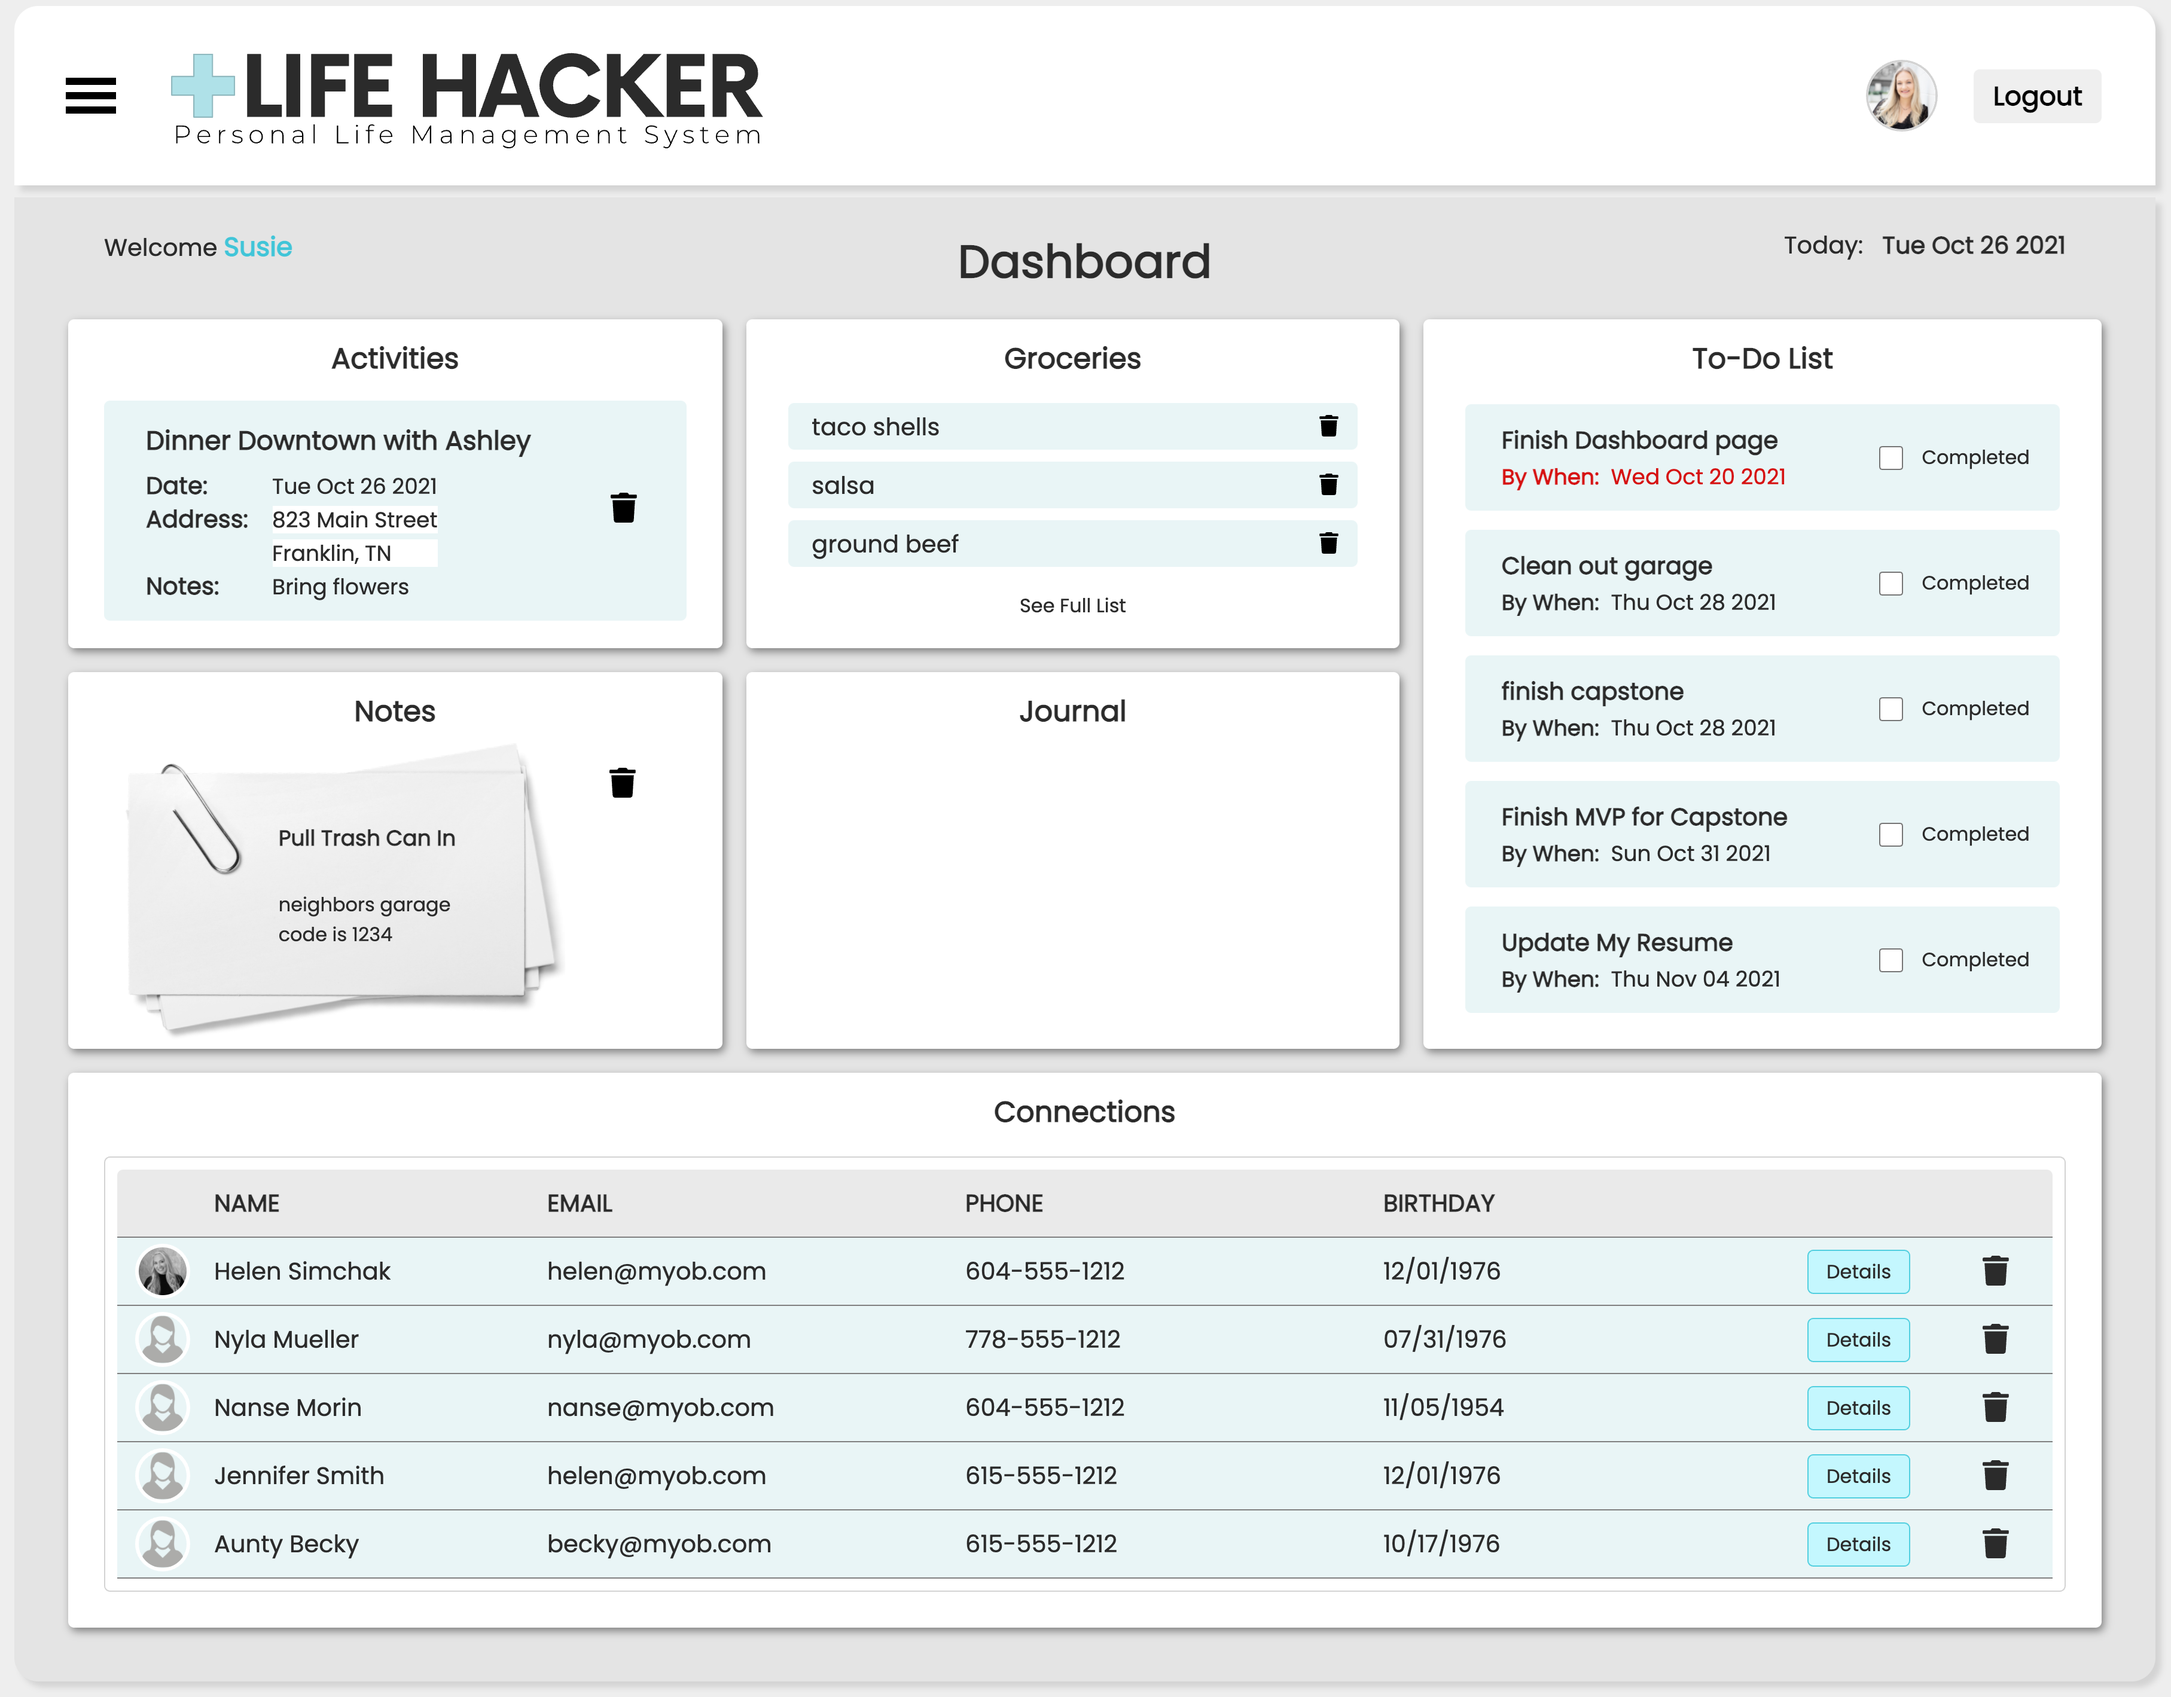
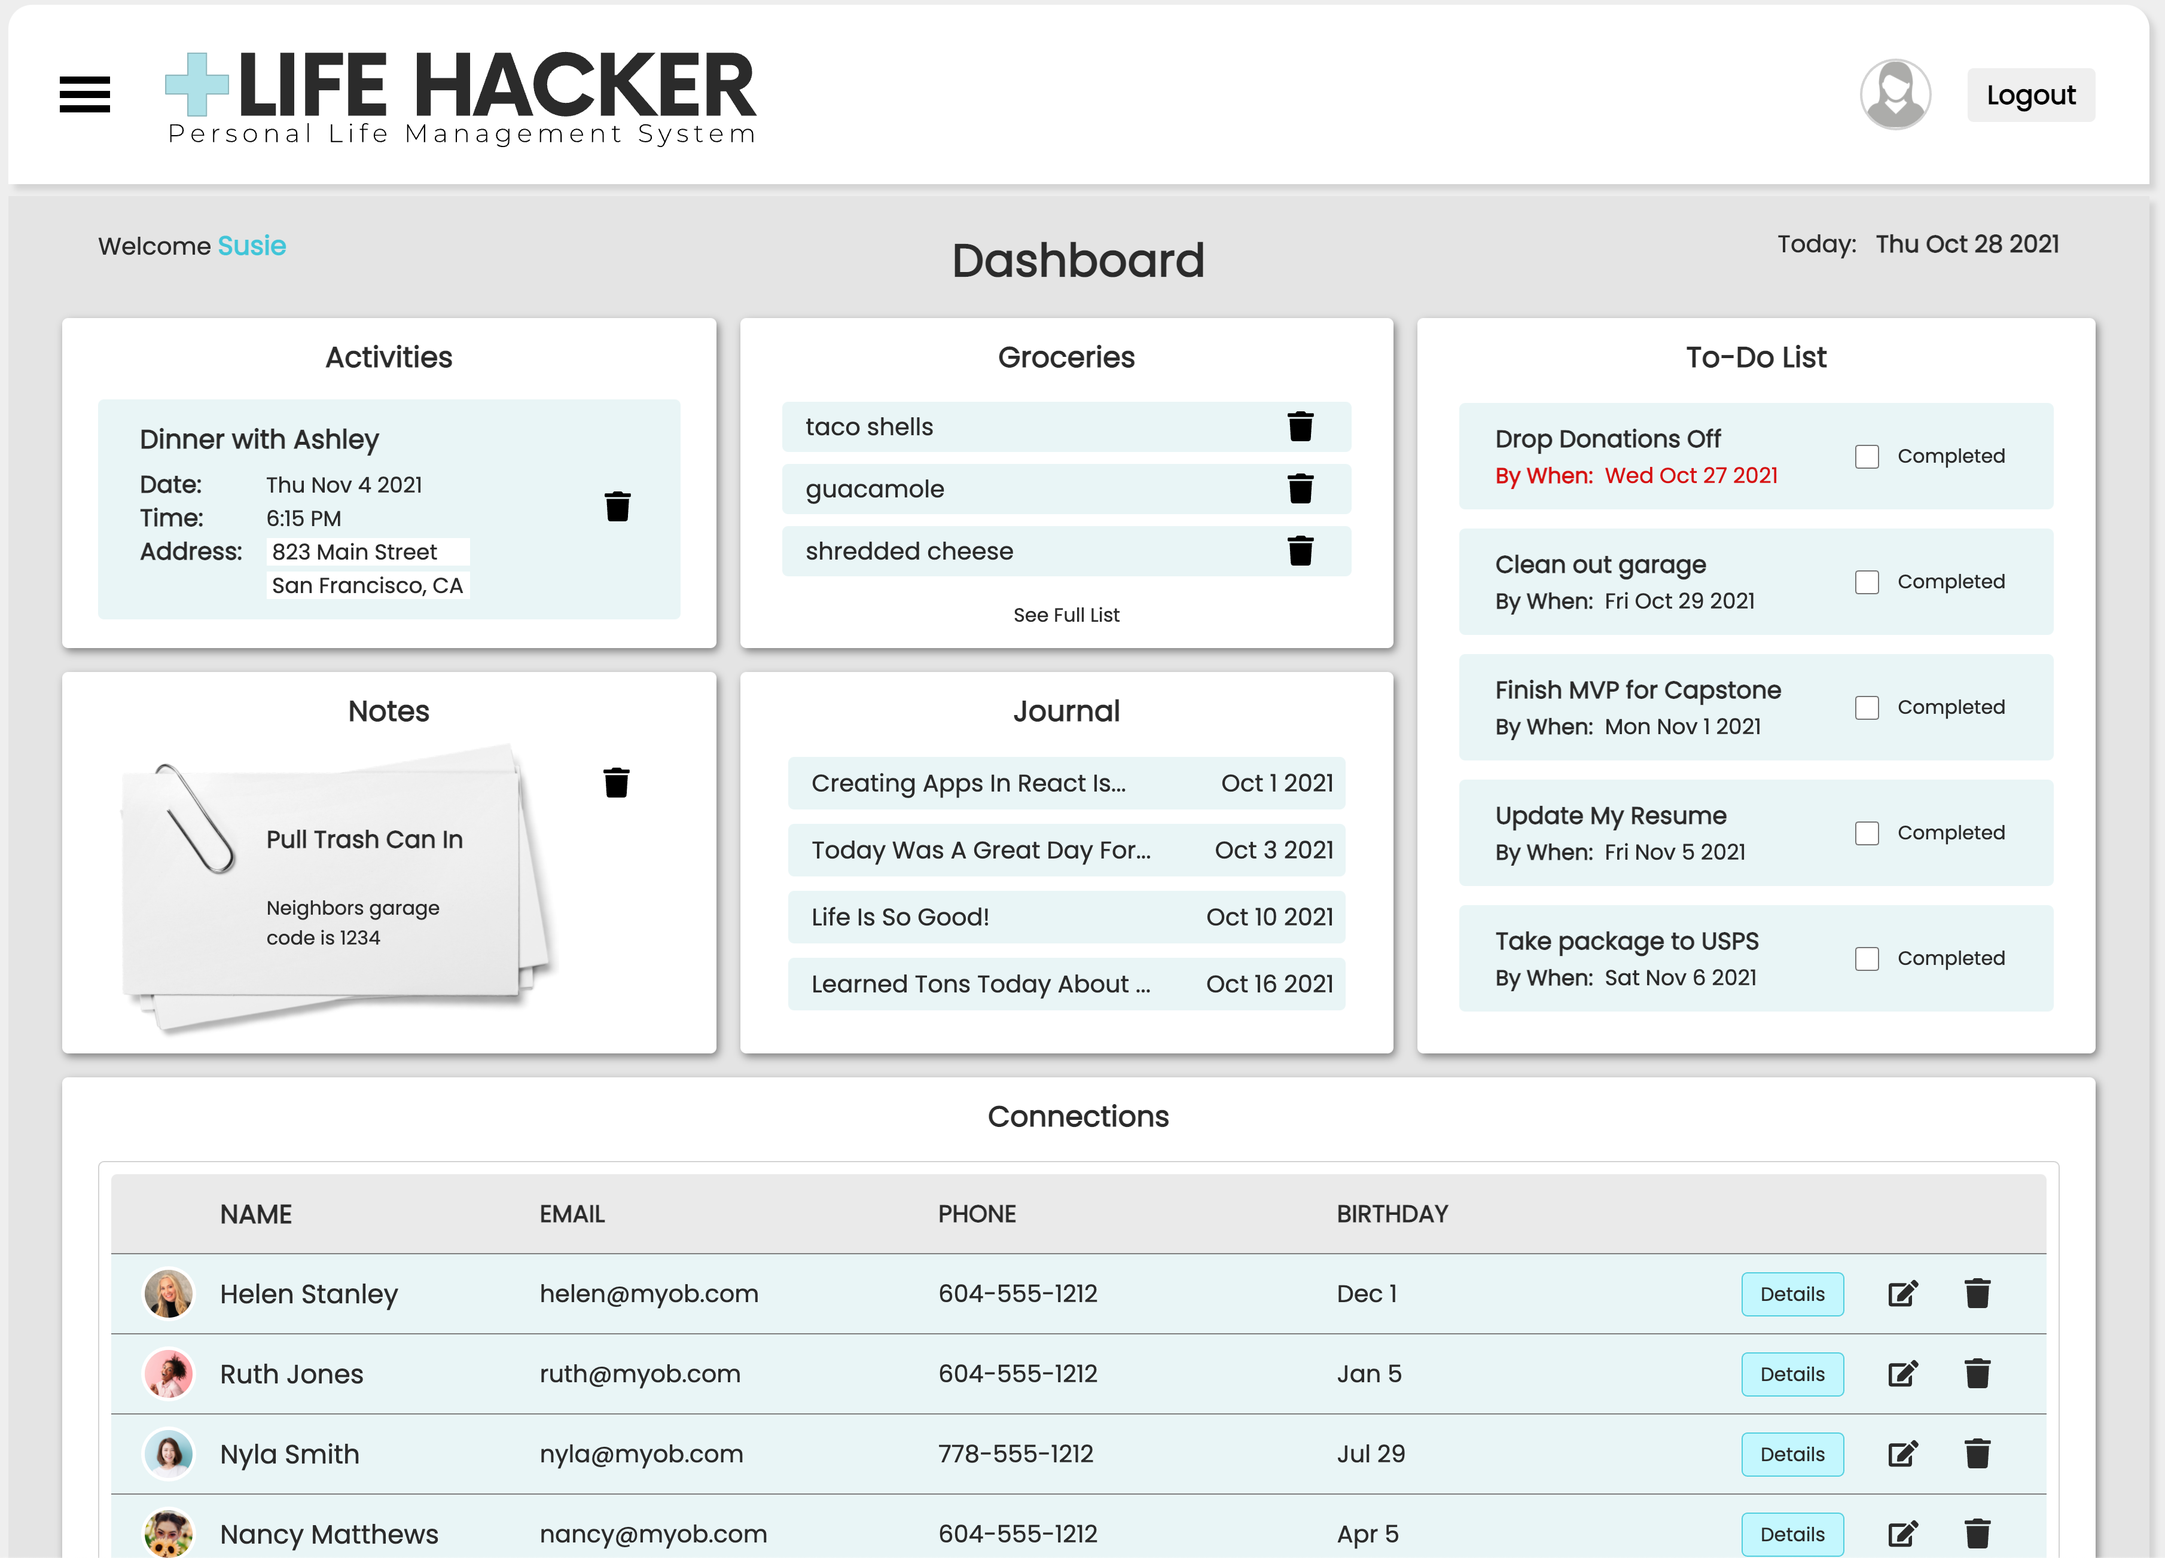
updated journalmanager, imageavatar, and sidebar - also uploaded new copy of ERD and dashboard.png

diff --git a/src/components/sidebar/Sidebar.js b/src/components/sidebar/Sidebar.js
@@ -1,82 +1,109 @@
-import React, { useState } from 'react'
-import { Link, useHistory } from 'react-router-dom'
+import React, { useState, useEffect } from "react";
+import { Link, useHistory } from "react-router-dom";
 // import AppBar from '@mui/material/AppBar';
-import Box from '@mui/material/Box';
+import Box from "@mui/material/Box";
 // import Toolbar from '@mui/material/Toolbar';
-import { createTheme, ThemeProvider } from '@mui/material/styles';
+import { createTheme, ThemeProvider } from "@mui/material/styles";
 import { GiHamburgerMenu } from "react-icons/gi";
-import { AiOutlineClose } from "react-icons/ai"
-import { SidebarData } from "./SidebarData"
-import { ImageAvatar } from "../navbar/ImageAvatar"
-import { IconContext } from "react-icons"
+import { AiOutlineClose } from "react-icons/ai";
+import { SidebarData } from "./SidebarData";
+import { ImageAvatar } from "../navbar/ImageAvatar";
+import { getUserById } from "../users/userManager";
+import { IconContext } from "react-icons";
 import logo from "../../images/lifehackerbanner.svg";
-import "./Sidebar.css"
-import "../LifeHacker.css"
+import "./Sidebar.css";
+import "../LifeHacker.css";
 
 export const Sidebar = () => {
-  const [ sidebar, setSidebar ] = useState(false)
+  const [sidebar, setSidebar] = useState(false);
+  const [user, setUser] = useState({
+    name: "",
+    email: "",
+    image: "",
+    id: 1,
+  });
+
+  const getUser = () => {
+    getUserById(sessionStorage.getItem("lifehacker_user")).then((currentUser) =>
+      setUser(currentUser)
+    );
+  };
 
   const history = useHistory();
 
   const theme = createTheme({
     typography: {
-      fontFamily: 'Poppins, Arial',
-      fontSize: 20
-    }
-  })
+      fontFamily: "Poppins, Arial",
+      fontSize: 20,
+    },
+  });
 
   const toggleSidebar = () => {
-    setSidebar(!sidebar) // this reverses whatever the current value is (true/false)
-  }
+    setSidebar(!sidebar); // this reverses whatever the current value is (true/false)
+  };
+
+  useEffect(() => {
+    getUser();
+  }, []);
+
   return (
-  <>
-  <IconContext.Provider value={{color: "#000000", size: "1.5em"}}>
-    <ThemeProvider theme={theme}>
-      <Box sx={{ flexGrow: 1 }}>
-        <div className="appbar-flex">
-          <div className="toolbar">
-            <div className="toolbar-left">
-              <Link to="#"
-                className="menu-bars">
-                <GiHamburgerMenu className="menu-icon" onClick={ toggleSidebar } />
-              </Link>
-              <Link to="/dashboard">
-                <div className="logo-wrapper">
-                <img className="logo" src={logo} alt="LifeHacker Logo" />
+    <>
+      <IconContext.Provider value={{ color: "#000000", size: "1.5em" }}>
+        <ThemeProvider theme={theme}>
+          <Box sx={{ flexGrow: 1 }}>
+            {/* start of AppBar at top of page */}
+            <div className="appbar-flex">
+              <div className="toolbar">
+                <div className="toolbar-left">
+                  <Link to="#" className="menu-bars">
+                    <GiHamburgerMenu
+                      className="menu-icon"
+                      onClick={toggleSidebar}
+                    />
+                  </Link>
+                  <Link to="/dashboard">
+                    <div className="logo-wrapper">
+                      <img className="logo" src={logo} alt="LifeHacker Logo" />
+                    </div>
+                  </Link>
                 </div>
-              </Link>
+                <div className="toolbar-right">
+                  <ImageAvatar className="avatar" key={user?.id} user={user} />
+                  <button
+                    className="logout"
+                    onClick={() => {
+                      sessionStorage.removeItem("lifehacker_user");
+                      history.push("/login");
+                    }}
+                  >
+                    Logout
+                  </button>
+                </div>
+              </div>
             </div>
-            <div className="toolbar-right">
-            <ImageAvatar className="avatar" />
-            <button className="logout" onClick={() => {
-            sessionStorage.removeItem("lifehacker_user");
-            history.push("/login")}}>Logout</button>
-            </div>
-          </div>
-        </div>
-      </Box>
-    </ThemeProvider>
-    <nav className={ sidebar ? "side-menu active" : "side-menu" }>
-      <ul className="side-menu-items" onClick={ toggleSidebar }>
-        <li className="sidebar-toggle">
-          <Link to="#" 
-          className="menu-close">
-            <AiOutlineClose className="close" />
-          </Link>  
-        </li>
-        { SidebarData.map((item, index) => {
-          return (
-            <li key={index} className={item.cName}>
-              <Link to={item.path}>
-                {item.icon}
-                <span>{item.title}</span>
+          </Box>
+        </ThemeProvider>
+        {/* start of side menu that slides in & out */}
+        <nav className={sidebar ? "side-menu active" : "side-menu"}>
+          <ul className="side-menu-items" onClick={toggleSidebar}>
+            <li className="sidebar-toggle">
+              <Link to="#" className="menu-close">
+                <AiOutlineClose className="close" />
               </Link>
             </li>
-          )
-        })}
-      </ul>
-    </nav>
-  </IconContext.Provider>
-  </>
-  )
-}
+            {SidebarData.map((item, index) => {
+              return (
+                <li key={index} className={item.cName}>
+                  <Link to={item.path}>
+                    {item.icon}
+                    <span>{item.title}</span>
+                  </Link>
+                </li>
+              );
+            })}
+          </ul>
+        </nav>
+      </IconContext.Provider>
+    </>
+  );
+};

diff --git a/src/components/navbar/ImageAvatar.js b/src/components/navbar/ImageAvatar.js
@@ -1,18 +1,19 @@
-import * as React from 'react'
-import Avatar from '@mui/material/Avatar'
-import Stack from '@mui/material/Stack'
-import user from '../../images/default.png'
+import * as React from "react";
+import Avatar from "@mui/material/Avatar";
+import Stack from "@mui/material/Stack";
 
-export const ImageAvatar = () => {
+export const ImageAvatar = (obj) => {
+  console.log("obj.user is: ", obj.user);
+  console.log("obj.user.name is: ", obj.user.name);
+  console.log("obj.user.image is: ", obj.user.image);
+
   return (
     <Stack direction="row" spacing={2}>
       <Avatar
-        alt="app user"
-        src={user}
-        sx={{ width: 60, height: 60, border: 2, borderColor: 'lightgray' }}
+        alt={obj?.user.name}
+        src={obj?.user.image}
+        sx={{ width: 60, height: 60, border: 2, borderColor: "lightgray" }}
       />
     </Stack>
-  )
-}
-
-export default ImageAvatar
+  );
+};

diff --git a/src/components/helper.js b/src/components/helper.js
@@ -16,17 +16,12 @@ export const formatDate = (obj) => {
 export const formatStringDate = (dateStr) => {
   const newDateStr = new Date(dateStr + "T12:00:00");
   let formattedDate = newDateStr.toDateString();
-  console.log("formattedDate inside formatStringDate is: ", formattedDate);
   // this next part adds comma after day of the month
   // formattedDate = formattedDate.slice(0, 10) + ", " + formattedDate.slice(10);
   // this next part adds a space after day of the month
   // formattedDate = formattedDate.slice(0, 10) + "  " + formattedDate.slice(10);
   //next line checks to see if the first digit of day is 0
   const checkZero = formattedDate.charAt(8);
-  console.log(
-    "charAt inside formatStringDate returns ",
-    formattedDate.charAt(8)
-  );
   if (checkZero === "0") {
     // this part takes off the leading 0
     formattedDate = formattedDate.slice(0, 8) + formattedDate.slice(9);

diff --git a/src/components/journals/JournalManager.js b/src/components/journals/JournalManager.js
@@ -4,17 +4,19 @@
 const url = "http://localhost:8088";
 
 export const getJournalsByUserId = (UserId) => {
-  return fetch(`${url}/journals/?userId=${UserId}`).then((res) => res.json());
+  return fetch(
+    `${url}/journals/?userId=${UserId}&_sort=dayTime&_order=asc`
+  ).then((res) => res.json());
 };
 
-export const getAllJournals = () => {
-  return fetch(`${url}/journals`, {
-    method: "GET",
-    headers: {
-      "Content-Type": "application/json",
-    },
-  }).then((res) => res.json());
-};
+// export const getAllJournals = () => {
+//   return fetch(`${url}/journals`, {
+//     method: "GET",
+//     headers: {
+//       "Content-Type": "application/json",
+//     },
+//   }).then((res) => res.json());
+// };
 
 export const addJournal = (newJournal) => {
   return fetch(`${url}/journals`, {

diff --git a/src/components/uploads/Upload.js b/src/components/uploads/Upload.js
@@ -1,0 +1,14 @@
+export const Upload = () => {
+  return (
+    <>
+      <div>
+        <input
+          type="file"
+          onChange={(event) => {
+            uploadImage(event.target.files);
+          }}
+        />
+      </div>
+    </>
+  );
+};

diff --git a/src/components/LifeHacker.css b/src/components/LifeHacker.css
@@ -50,7 +50,7 @@ body {
   border-radius: 0px 0px 20px 20px;
   padding: 0px 30px 30px;
   margin: 10px 5px;
-  min-height: 800px;
+  min-height: 80vh;
   color: #2b2b2b;
   box-shadow: 5px 5px 5px lightgray;
 }
